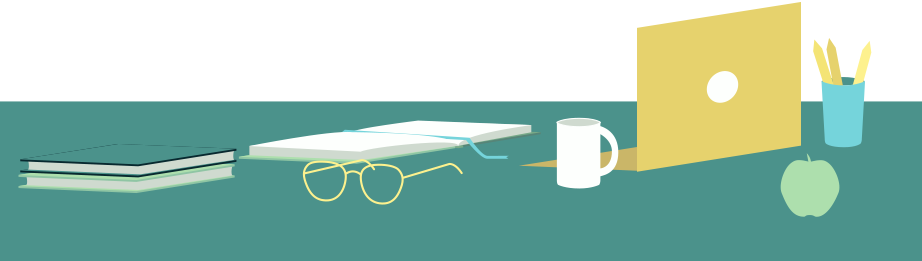
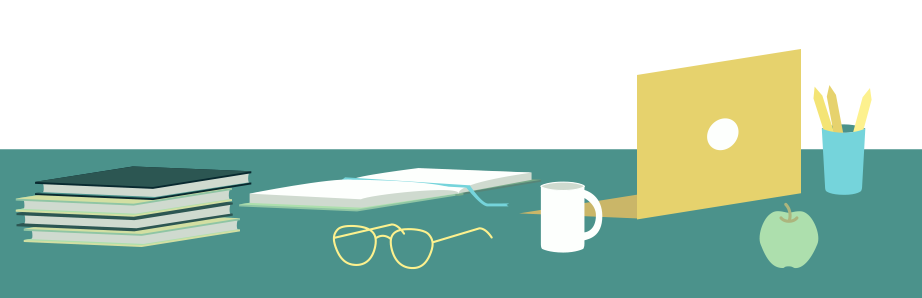
fixed industry graphic & size of others

diff --git a/_sass/_base.scss b/_sass/_base.scss
@@ -334,19 +334,19 @@ body {
 
 .profile-category {
   @include flex-size();
-  margin-top: -66px;
+  margin-top: -98px;
 
   .category-img {
     background-repeat: no-repeat;
     background-size: 100%;
     width: 100%;
-    padding-top: 28.30%;
+    padding-top: 31.30%;
     height: 0;
   }
 
   .category-section {
     min-height: 225px;
-    padding-bottom: 80px;
+    padding-bottom: 100px;
     padding-top: 20px;
     margin-top: -5px;
 

diff --git a/_sass/_variables.scss b/_sass/_variables.scss
@@ -38,9 +38,9 @@ $subtitle-color: #616CA5;
 $bullet-txt-color: #BACACB;
 $bullet-subtxt-color: #A1AEB3;
 $launch-msg-color: $white;
-$geo-bg-color: #3F65B2;
+$geo-bg-color: #4268B1;
 $cip-bg-color: #4B928B;
-$soc-bg-color: #DAAB99;
+$soc-bg-color: #d1685e;
 $naics-bg-color: #505876;
 
 $enriqueta: "Enriqueta", serif;
